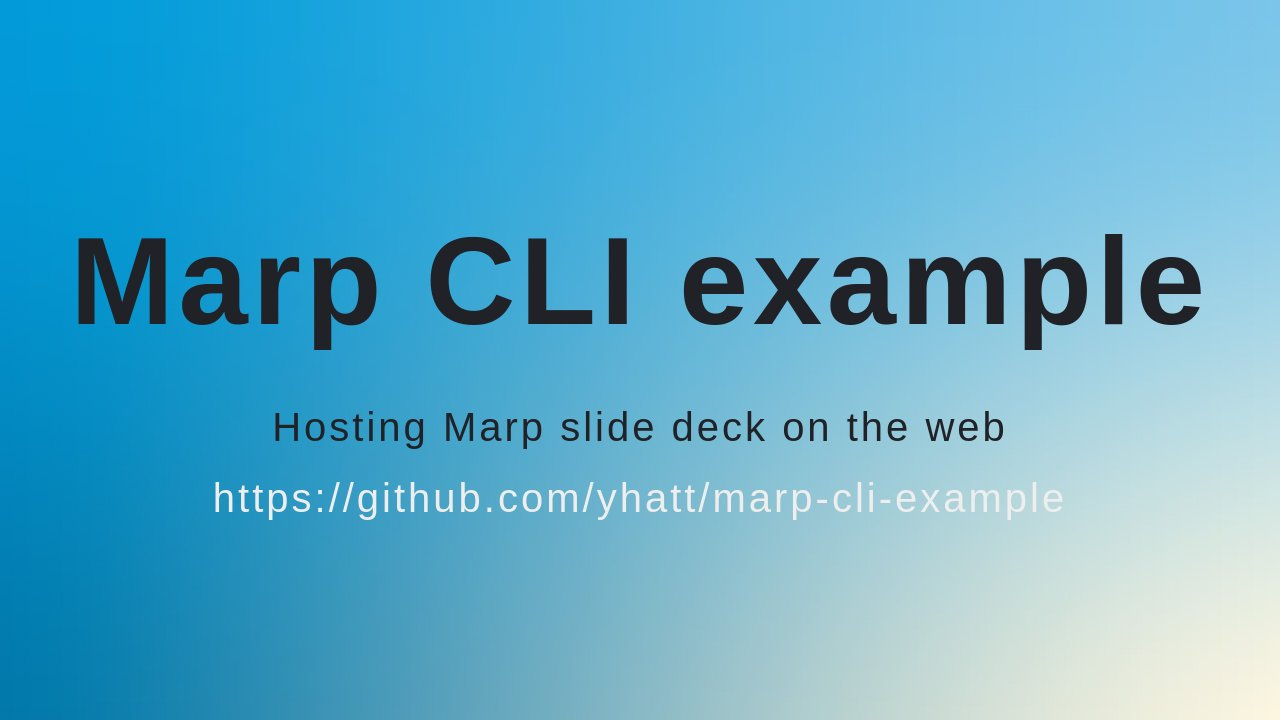
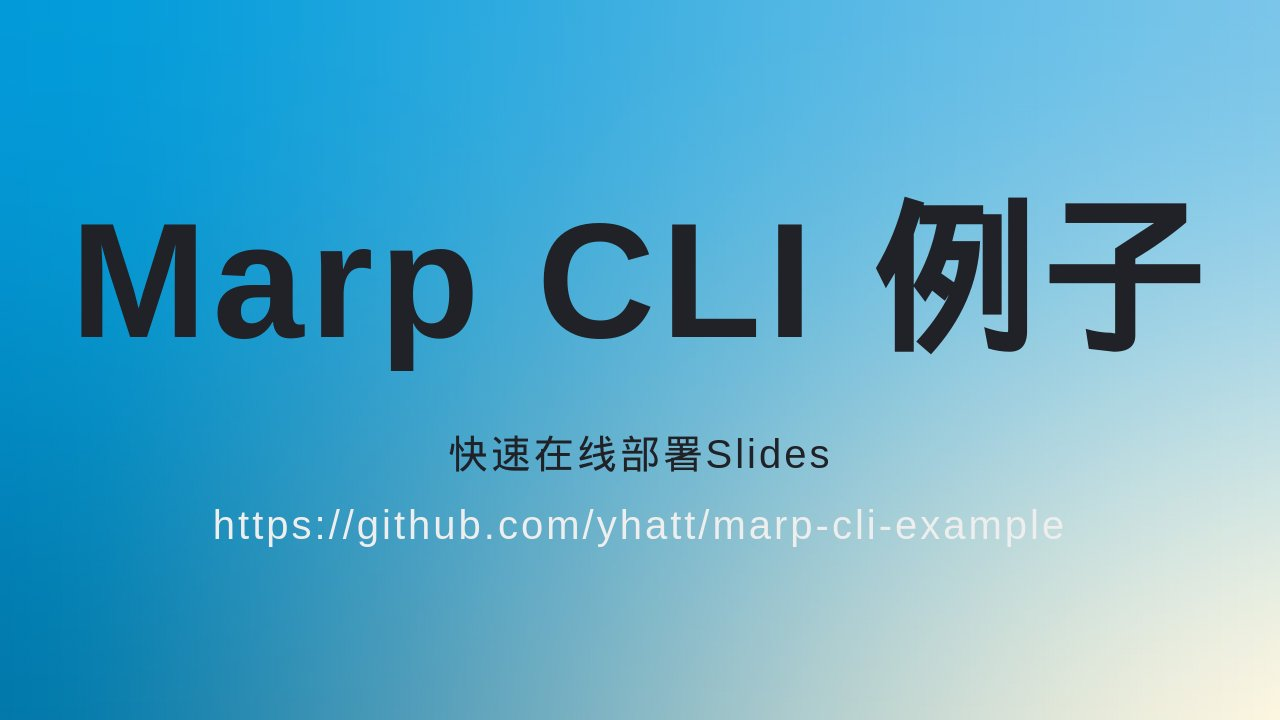
Deploying to gh-pages from  @ be5c98e682c4b13ca8f6d6287fdfdcc9e5a7743b 🚀

Changed region(s): [[0.0625, 0.275, 0.9375, 0.5194], [0.1562, 0.5806, 0.8438, 0.7639]]

diff --git a/index.html b/index.html
@@ -7,9 +7,9 @@
  *
  * @auto-scaling fittingHeader,math
  * @size 4:3 960px 720px
[1 lines of base64/hex data omitted]
-<h1><svg data-marp-fitting="svg"><foreignObject><span data-marp-fitting-svg-content> Marp CLI example</span></foreignObject></svg></h1>
-<p>Hosting Marp slide deck on the web</p>
[1 lines of base64/hex data omitted]
+<h1><svg data-marp-fitting="svg"><foreignObject><span data-marp-fitting-svg-content> Marp CLI 例子</span></foreignObject></svg></h1>
+<p>快速在线部署Slides</p>
 <p><a href="https://github.com/yhatt/marp-cli-example">https://github.com/yhatt/marp-cli-example</a></p>
 </section>
 </foreignObject><foreignObject width="1280" height="720" data-marpit-advanced-background="pseudo"><section style="" data-marpit-advanced-background="pseudo"></section></foreignObject></svg><svg data-marpit-svg="" viewBox="0 0 1280 720"><foreignObject width="1280" height="720"><section data-paginate="true" data-theme="uncover" data-marpit-pagination="2" data-marpit-pagination-total="8" style="--paginate:true;--theme:uncover;" data-marpit-advanced-background="background"><div data-marpit-advanced-background-container="true" data-marpit-advanced-background-direction="horizontal"><figure style="background-image:url(&quot;https://raw.githubusercontent.com/marp-team/marp/master/marp.png&quot;);background-size:60%;"></figure></div></section></foreignObject><foreignObject width="1280" height="720"><section id="2" data-paginate="true" data-theme="uncover" data-marpit-pagination="2" data-marpit-pagination-total="8" style="--paginate:true;--theme:uncover;" data-marpit-advanced-background="content"></section>
@@ -41,7 +41,7 @@
 <p><a href="https://github.com/yhatt/marp-cli-example">https://github.com/yhatt/marp-cli-example</a></p>
 </section>
 <script>!function(){"use strict";let t=void 0;function e(e){let r=!1;Array.from(document.querySelectorAll("svg[data-marpit-svg]"),i=>{const{children:o,clientHeight:n,clientWidth:a,viewBox:s}=i;i.style.transform||(i.style.transform="translateZ(0)");const l=e||window!==window.parent&&window.parent.marpitSVGPolyfillZoomFactor||i.currentScale||1;t!==l&&(t=l,r=l);const c=s.baseVal.width/l,d=s.baseVal.height/l,p=Math.min(n/d,a/c);for(let t=0;t<o.length;t+=1){const{style:e}=o[t].firstChild;e.position||(e.position="fixed"),e.transformOrigin||(e.transformOrigin="0 0"),e.transform=`scale(${p}) translateZ(0)`}}),!1!==r&&Object.defineProperty(window,"marpitSVGPolyfillZoomFactor",{configurable:!0,value:r})}const r=(t,e,r)=>{if(t.getAttribute(e)!==r)return t.setAttribute(e,r),!0};function i(t=!0){for(const t of"Apple Computer, Inc."===navigator.vendor?[e]:[])t();Array.from(document.querySelectorAll('svg[data-marp-fitting="svg"]'),t=>{var e;const i=t.firstChild,o=i.firstChild,{scrollWidth:n,scrollHeight:a}=o;let s,l=1;if(t.hasAttribute("data-marp-fitting-code")&&(s=null===(e=t.parentElement)||void 0===e?void 0:e.parentElement),t.hasAttribute("data-marp-fitting-math")&&(s=t.parentElement),s){const t=getComputedStyle(s),e=Math.ceil(s.clientWidth-parseFloat(t.paddingLeft||"0")-parseFloat(t.paddingRight||"0"));e&&(l=e)}const c=Math.max(n,l),d=Math.max(a,1),p=`0 0 ${c} ${d}`;r(i,"width",""+c),r(i,"height",""+d),r(t,"preserveAspectRatio",getComputedStyle(t).getPropertyValue("--preserve-aspect-ratio")||"xMinYMin meet"),r(t,"viewBox",p)&&t.classList.toggle("__reflow__")}),t&&window.requestAnimationFrame(()=>i(t))}!function(){if("undefined"==typeof window)throw new Error("Marp Core's browser script is valid only in browser context.");window.marpCoreBrowserScript?console.warn("Marp Core's browser script has already executed."):(Object.defineProperty(window,"marpCoreBrowserScript",{value:!0}),i())}()}();
-</script></foreignObject><foreignObject width="1280" height="720" data-marpit-advanced-background="pseudo"><section style="" data-marpit-advanced-background="pseudo" data-marpit-pagination="8" data-marpit-pagination-total="8"></section></foreignObject></svg></div><div class="bespoke-marp-note" data-index="0" tabindex="0"><p>This is presenter note. You can write down notes through HTML comment.</p></div><script>!function(){"use strict";var e=function(e,t){var n,r=1===(e.parent||e).nodeType?e.parent||e:document.querySelector(e.parent||e),a=[].filter.call("string"==typeof e.slides?r.querySelectorAll(e.slides):e.slides||r.children,(function(e){return"SCRIPT"!==e.nodeName})),s={},i=function(e,t){return(t=t||{}).index=a.indexOf(e),t.slide=e,t},o=function(e,t){s[e]=(s[e]||[]).filter((function(e){return e!==t}))},l=function(e,t){return(s[e]||[]).reduce((function(e,n){return e&&!1!==n(t)}),!0)},c=function(e,t){a[e]&&(n&&l("deactivate",i(n,t)),n=a[e],l("activate",i(n,t)))},d=function(e,t){var r=a.indexOf(n)+e;l(e>0?"next":"prev",i(n,t))&&c(r,t)},u={off:o,on:function(e,t){return(s[e]||(s[e]=[])).push(t),o.bind(null,e,t)},fire:l,slide:function(e,t){if(!arguments.length)return a.indexOf(n);l("slide",i(a[e],t))&&c(e,t)},next:d.bind(null,1),prev:d.bind(null,-1),parent:r,slides:a,destroy:function(e){l("destroy",i(n,e)),s={}}};return(t||[]).forEach((function(e){e(u)})),n||c(0),u};function t(e){e.parent.classList.add("bespoke-marp-parent"),e.slides.forEach(e=>e.classList.add("bespoke-marp-slide")),e.on("activate",t=>{const n=t.slide,r=!n.classList.contains("bespoke-marp-active");e.slides.forEach(e=>{e.classList.remove("bespoke-marp-active"),e.setAttribute("aria-hidden","true")}),n.classList.add("bespoke-marp-active"),n.removeAttribute("aria-hidden"),r&&(n.classList.add("bespoke-marp-active-ready"),document.body.clientHeight,n.classList.remove("bespoke-marp-active-ready"))})}function n(e){let t=0,n=0;Object.defineProperty(e,"fragments",{enumerable:!0,value:e.slides.map(e=>[null,...e.querySelectorAll("[data-marpit-fragment]")])});const r=r=>void 0!==e.fragments[t][n+r],a=(r,a)=>{t=r,n=a,e.fragments.forEach((e,t)=>{e.forEach((e,n)=>{if(null==e)return;const s=t<r||t===r&&n<=a;e.setAttribute("data-bespoke-marp-fragment",s?"active":"inactive"),t===r&&n===a?e.setAttribute("data-bespoke-marp-current-fragment","current"):e.removeAttribute("data-bespoke-marp-current-fragment")})}),e.fragmentIndex=a;const s={slide:e.slides[r],index:r,fragments:e.fragments[r],fragmentIndex:a};e.fire("fragment",s)};e.on("next",({fragment:s=!0})=>{if(s){if(r(1))return a(t,n+1),!1;const s=t+1;e.fragments[s]&&a(s,0)}else{const r=e.fragments[t].length;if(n+1<r)return a(t,r-1),!1;const s=e.fragments[t+1];s&&a(t+1,s.length-1)}}),e.on("prev",({fragment:s=!0})=>{if(r(-1)&&s)return a(t,n-1),!1;const i=t-1;e.fragments[i]&&a(i,e.fragments[i].length-1)}),e.on("slide",({index:t,fragment:n})=>{let r=0;if(void 0!==n){const a=e.fragments[t];if(a){const{length:e}=a;r=-1===n?e-1:Math.min(Math.max(n,0),e-1)}}a(t,r)}),a(0,0)}var r=function(e,t,n){return e(n={path:t,exports:{},require:function(e,t){return function(){throw new Error("Dynamic requires are not currently supported by @rollup/plugin-commonjs")}(null==t&&n.path)}},n.exports),n.exports}((function(e){
+</script></foreignObject><foreignObject width="1280" height="720" data-marpit-advanced-background="pseudo"><section style="" data-marpit-advanced-background="pseudo" data-marpit-pagination="8" data-marpit-pagination-total="8"></section></foreignObject></svg></div><div class="bespoke-marp-note" data-index="0" tabindex="0"><p>This is presenter note. 打算在演讲中说什么呢</p></div><script>!function(){"use strict";var e=function(e,t){var n,r=1===(e.parent||e).nodeType?e.parent||e:document.querySelector(e.parent||e),a=[].filter.call("string"==typeof e.slides?r.querySelectorAll(e.slides):e.slides||r.children,(function(e){return"SCRIPT"!==e.nodeName})),s={},i=function(e,t){return(t=t||{}).index=a.indexOf(e),t.slide=e,t},o=function(e,t){s[e]=(s[e]||[]).filter((function(e){return e!==t}))},l=function(e,t){return(s[e]||[]).reduce((function(e,n){return e&&!1!==n(t)}),!0)},c=function(e,t){a[e]&&(n&&l("deactivate",i(n,t)),n=a[e],l("activate",i(n,t)))},d=function(e,t){var r=a.indexOf(n)+e;l(e>0?"next":"prev",i(n,t))&&c(r,t)},u={off:o,on:function(e,t){return(s[e]||(s[e]=[])).push(t),o.bind(null,e,t)},fire:l,slide:function(e,t){if(!arguments.length)return a.indexOf(n);l("slide",i(a[e],t))&&c(e,t)},next:d.bind(null,1),prev:d.bind(null,-1),parent:r,slides:a,destroy:function(e){l("destroy",i(n,e)),s={}}};return(t||[]).forEach((function(e){e(u)})),n||c(0),u};function t(e){e.parent.classList.add("bespoke-marp-parent"),e.slides.forEach(e=>e.classList.add("bespoke-marp-slide")),e.on("activate",t=>{const n=t.slide,r=!n.classList.contains("bespoke-marp-active");e.slides.forEach(e=>{e.classList.remove("bespoke-marp-active"),e.setAttribute("aria-hidden","true")}),n.classList.add("bespoke-marp-active"),n.removeAttribute("aria-hidden"),r&&(n.classList.add("bespoke-marp-active-ready"),document.body.clientHeight,n.classList.remove("bespoke-marp-active-ready"))})}function n(e){let t=0,n=0;Object.defineProperty(e,"fragments",{enumerable:!0,value:e.slides.map(e=>[null,...e.querySelectorAll("[data-marpit-fragment]")])});const r=r=>void 0!==e.fragments[t][n+r],a=(r,a)=>{t=r,n=a,e.fragments.forEach((e,t)=>{e.forEach((e,n)=>{if(null==e)return;const s=t<r||t===r&&n<=a;e.setAttribute("data-bespoke-marp-fragment",s?"active":"inactive"),t===r&&n===a?e.setAttribute("data-bespoke-marp-current-fragment","current"):e.removeAttribute("data-bespoke-marp-current-fragment")})}),e.fragmentIndex=a;const s={slide:e.slides[r],index:r,fragments:e.fragments[r],fragmentIndex:a};e.fire("fragment",s)};e.on("next",({fragment:s=!0})=>{if(s){if(r(1))return a(t,n+1),!1;const s=t+1;e.fragments[s]&&a(s,0)}else{const r=e.fragments[t].length;if(n+1<r)return a(t,r-1),!1;const s=e.fragments[t+1];s&&a(t+1,s.length-1)}}),e.on("prev",({fragment:s=!0})=>{if(r(-1)&&s)return a(t,n-1),!1;const i=t-1;e.fragments[i]&&a(i,e.fragments[i].length-1)}),e.on("slide",({index:t,fragment:n})=>{let r=0;if(void 0!==n){const a=e.fragments[t];if(a){const{length:e}=a;r=-1===n?e-1:Math.min(Math.max(n,0),e-1)}}a(t,r)}),a(0,0)}var r=function(e,t,n){return e(n={path:t,exports:{},require:function(e,t){return function(){throw new Error("Dynamic requires are not currently supported by @rollup/plugin-commonjs")}(null==t&&n.path)}},n.exports),n.exports}((function(e){
 /*!
 * screenfull
 * v5.0.2 - 2020-02-13
